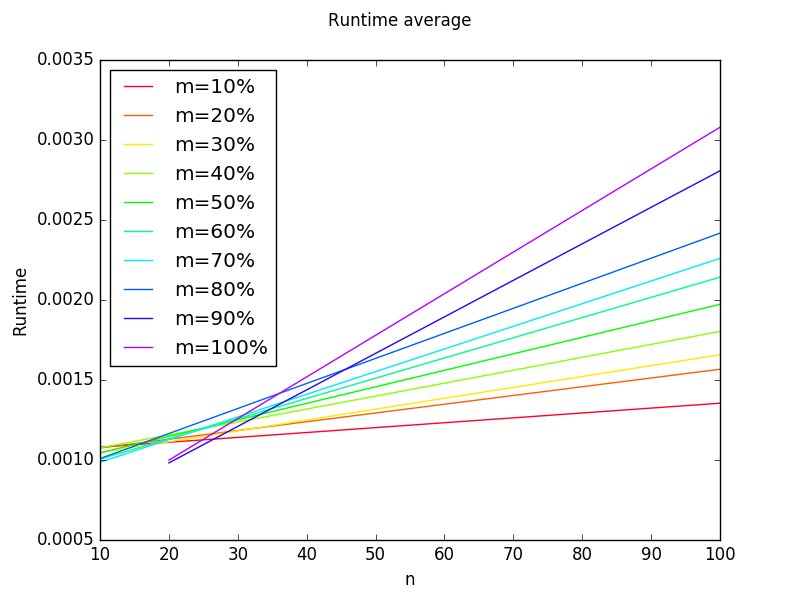
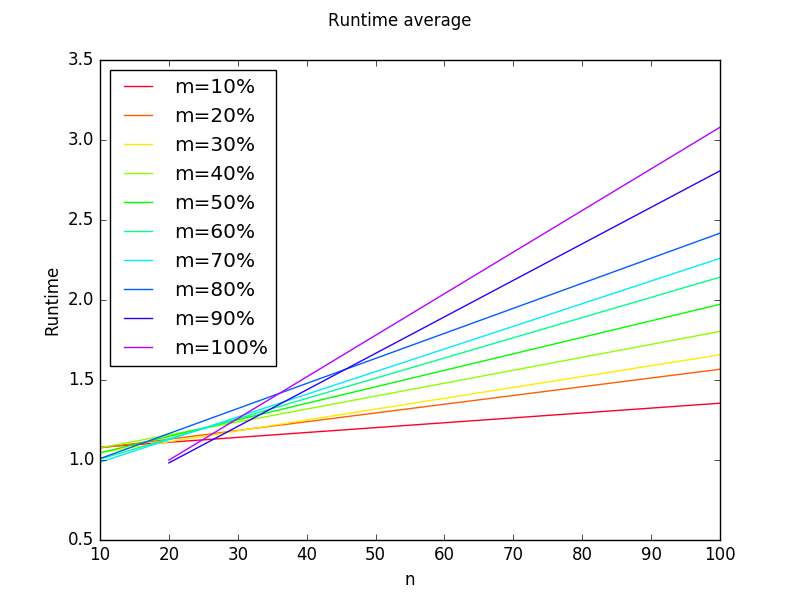
converted seconds to milliseconds

diff --git a/plots/lab1_1_timeplot_mConstant.py b/plots/lab1_1_timeplot_mConstant.py
@@ -18,7 +18,7 @@ for x in range (0, 100):
     nodes = int(iter[0])
     edges = int((float(iter[1]))/(float((nodes*(nodes-1))/2)) *100);
     index = (edges/10) - 1
-    time[index].append(float(iter[3]))
+    time[index].append((float(iter[3]))*1000)
     n[index].append(int(iter[0]))
 
 cm = plt.get_cmap('gist_rainbow')

diff --git a/plots/lab1_1_timeplot_nConstant.py b/plots/lab1_1_timeplot_nConstant.py
@@ -17,7 +17,7 @@ for x in range (0, 100):
     iter = trials[x].split(" ")
     nodes = int(iter[0]);
     index = (nodes/10) - 1
-    time[index].append(float(iter[3]))
+    time[index].append((float(iter[3]))*1000)
     m[index].append(float(iter[1])/((nodes*(nodes-1))/2) *100)
 
 
